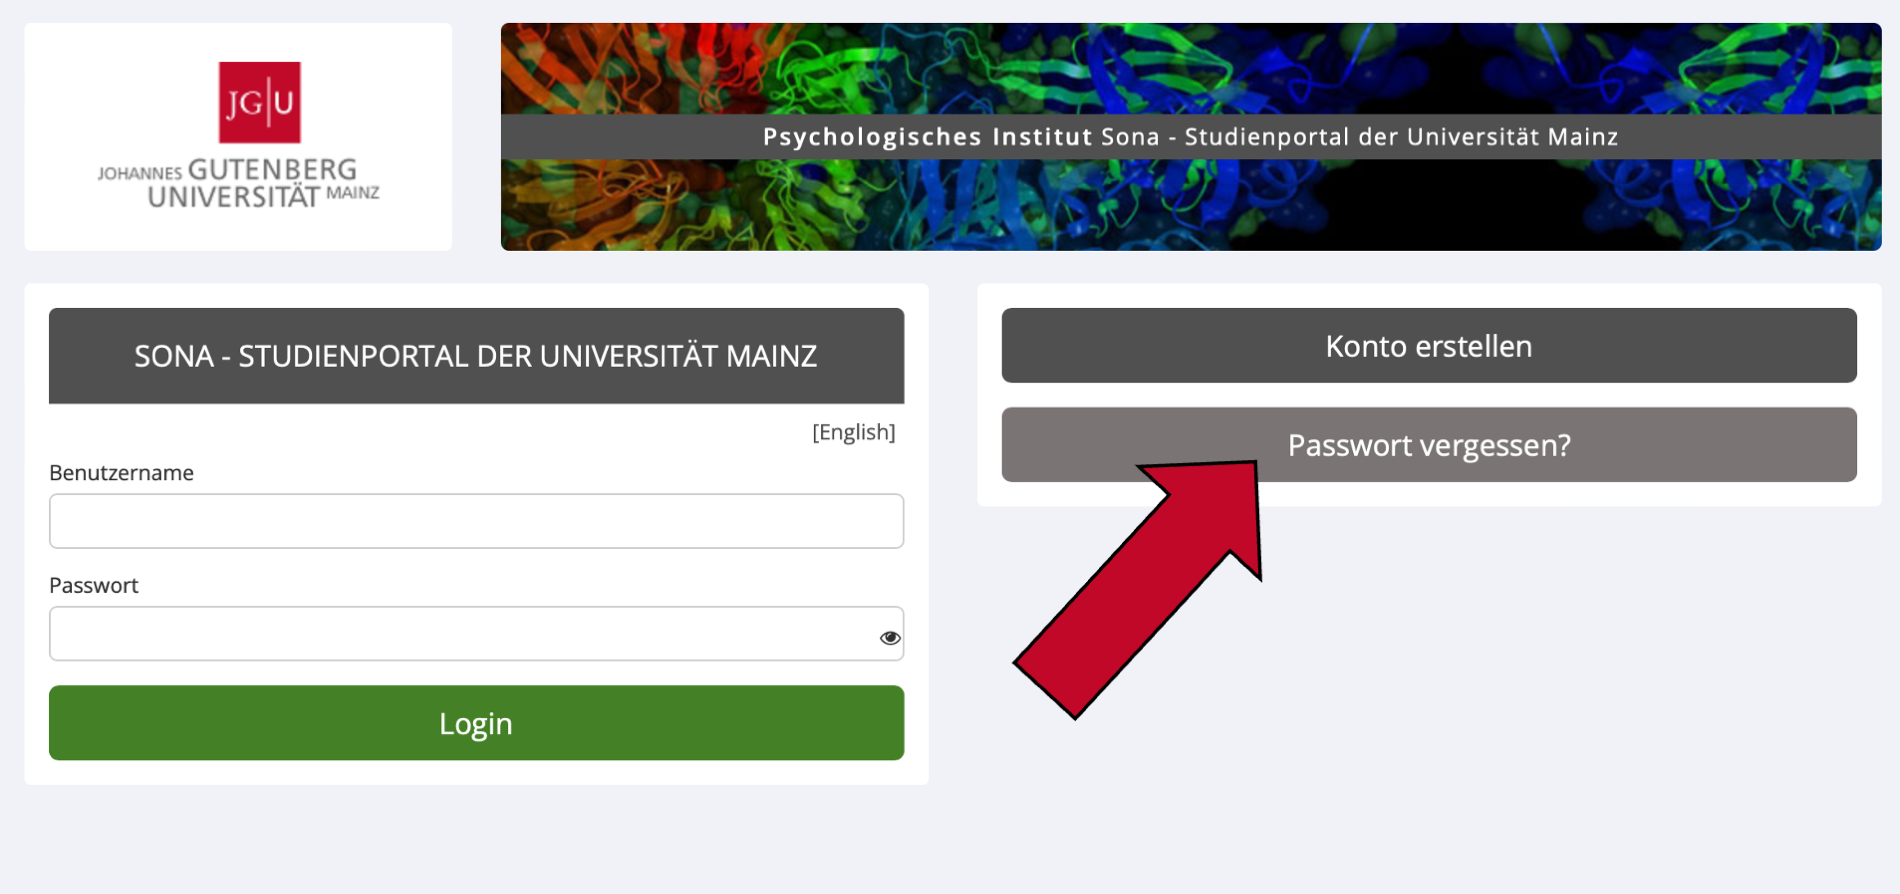
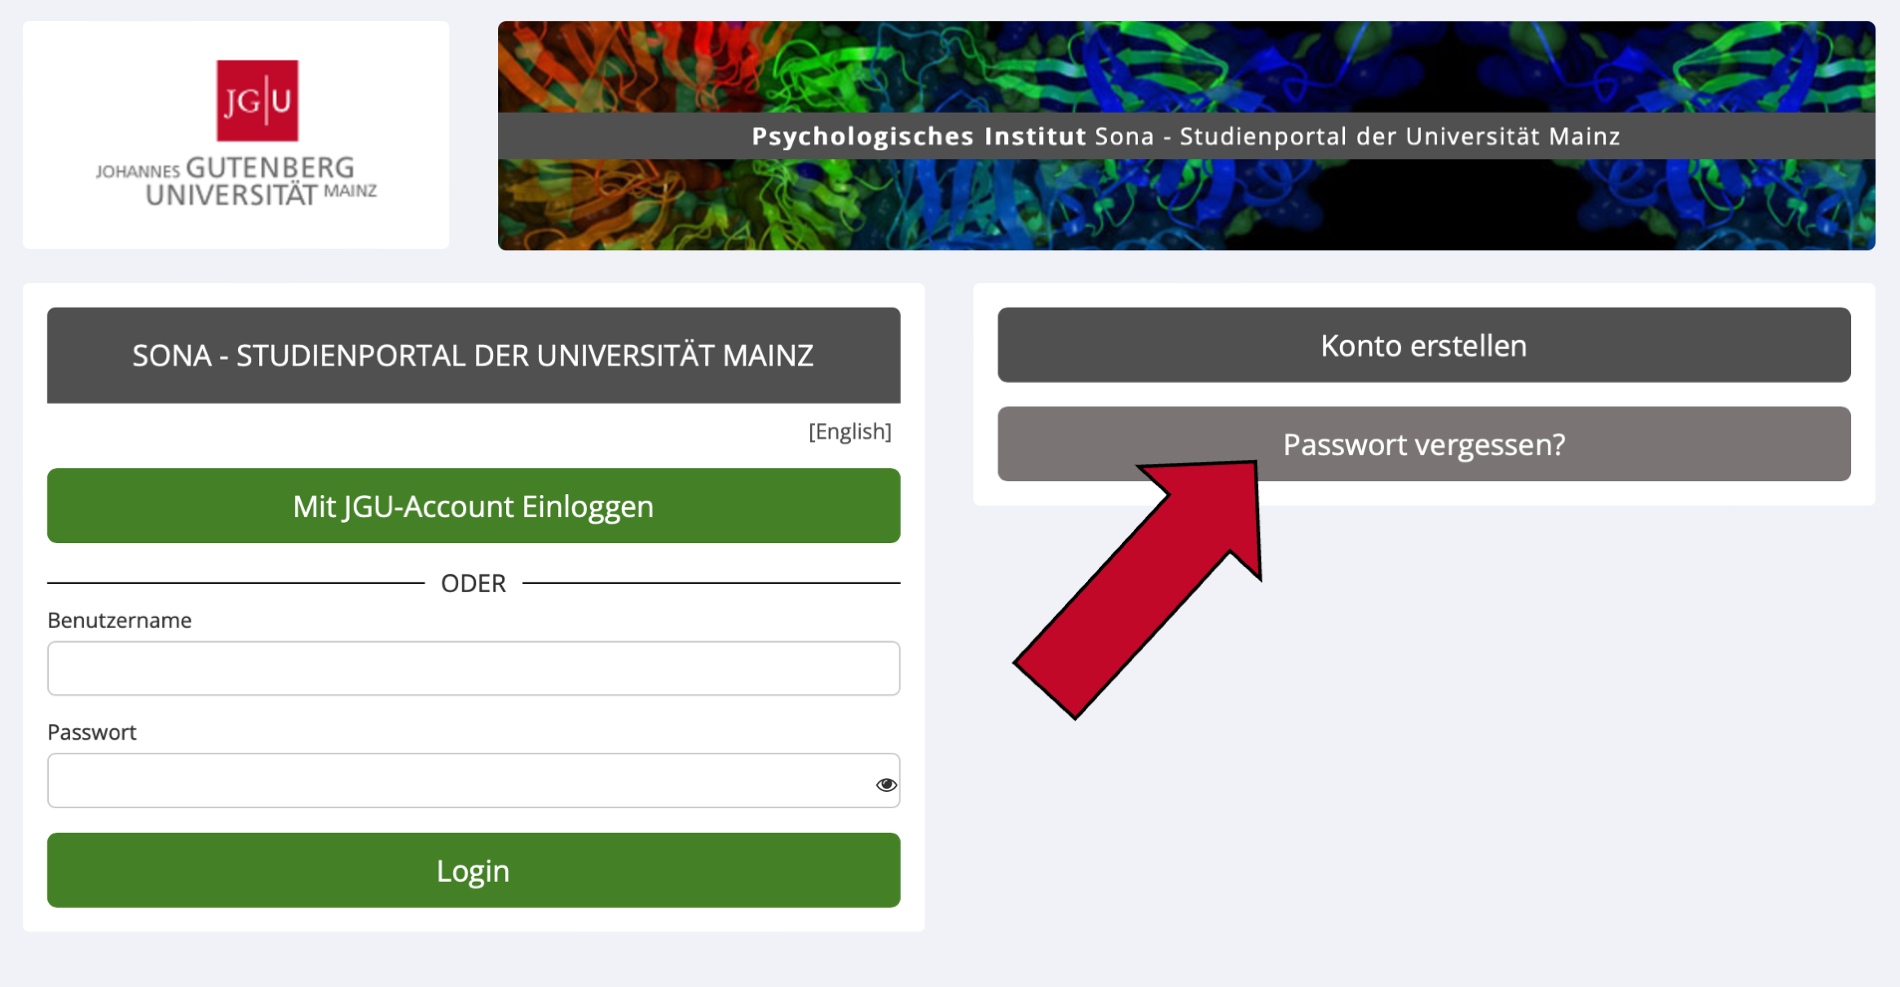
Änderungen nach SSO Integration und Beschlüssen aus dem LK: VP-Stunden Stückelung = 0,5, Anreiz für Laborstudien weg, Verweis auf Online-Studien Automatische Vergabe von VP, Screenshots ausgetauscht wegen neuer SSO Startseite, mit CSS Styles Seitenleiste vergrößert, Link zum VP Handbuch eingefügt

diff --git a/style.css b/style.css
@@ -41,3 +41,21 @@ kbd {
   background-color: rgb(247, 247, 247);
   text-shadow: 0 1px 0 #fff;
 }
+
+
+
+.book .book-summary {
+  width: 400px;
+  position:absolute;
+  top:0;
+  left:-400px;
+}
+
+.book.with-summary .book-header.fixed {
+    left: 400px;
+}
+
+.book.with-summary .book-body {
+    left: 400px;
+}
+
